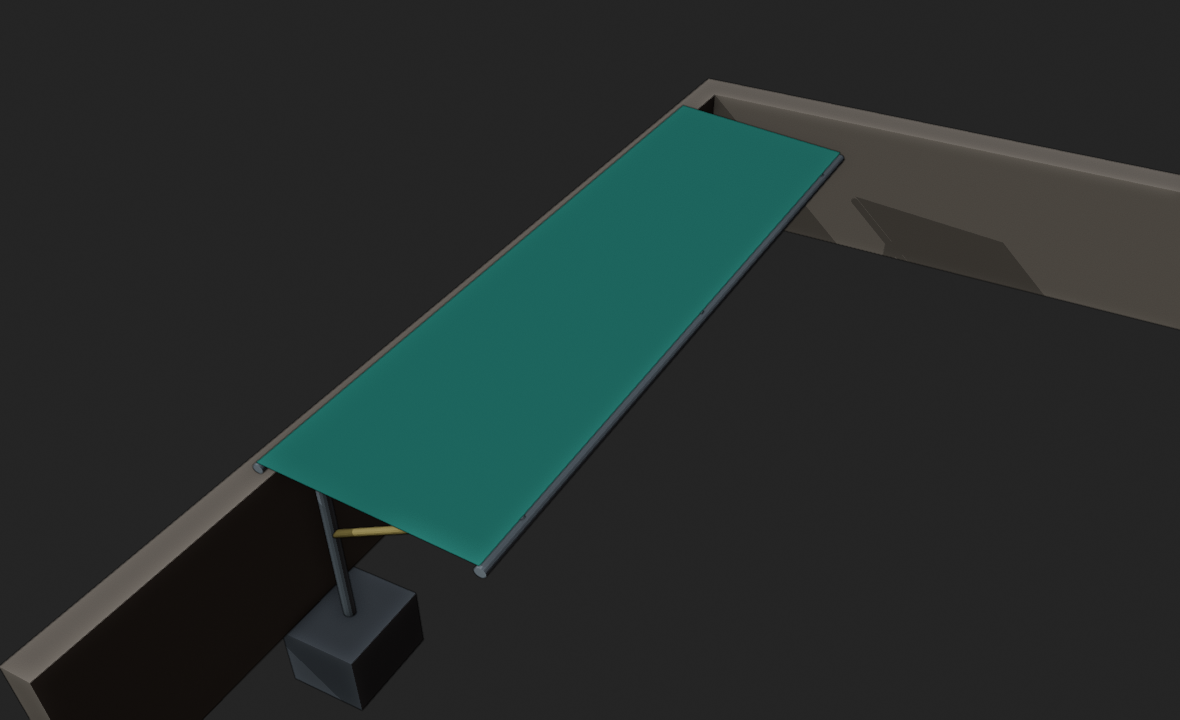
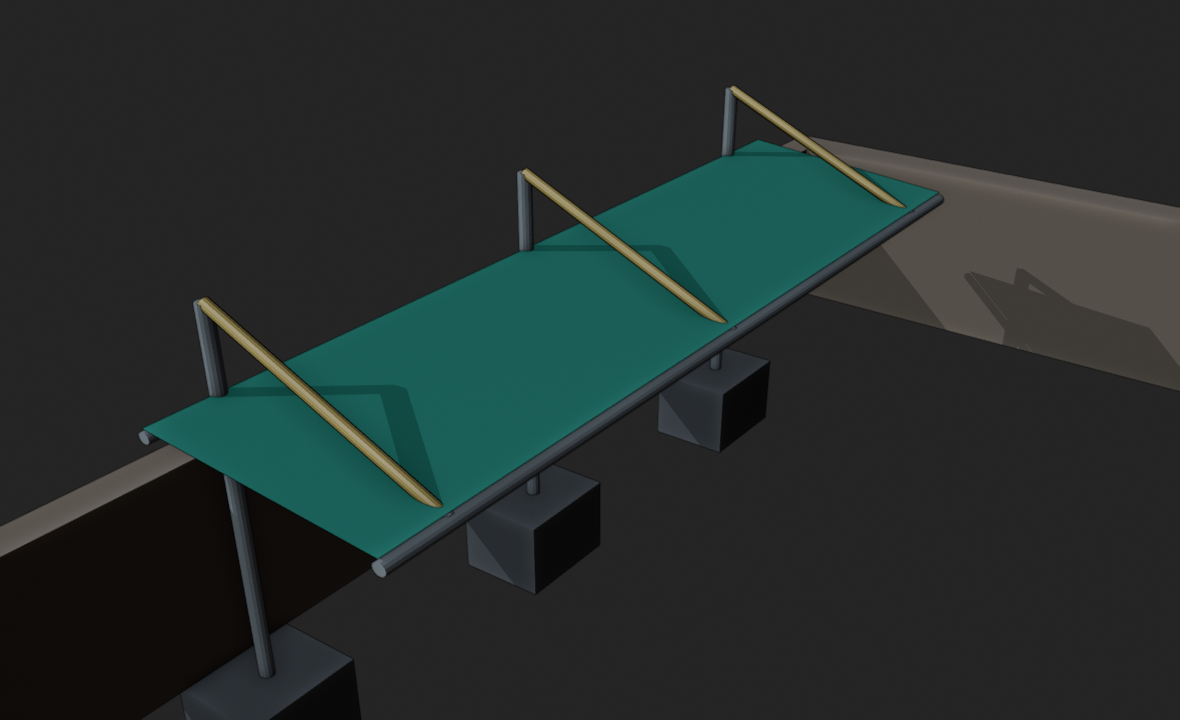
apks: 更新 tools/canopy-struct
Auto-synced by apk-github-sync at 2026-10-19 10:42:09

- apks/README.md
- apks/index.json
- apks/tools/canopy-struct/canopy-struct.apk
- apks/tools/canopy-struct/meta.json
- apks/tools/canopy-struct/src/README.md
- apks/tools/canopy-struct/src/assets/model.js
- apks/tools/canopy-struct/src/assets/view2d.js
- apks/tools/canopy-struct/src/assets/view3d.js
- "apks/tools/canopy-struct/src/\346\210\252\345\233\276/e2e-3d.png"
- "apks/tools/canopy-struct/src/\346\210\252\345\233\276/\345\233\264\345\242\231\344\276\247-W1.png"

Changed region(s): [[0.0, 0.0917, 1.0, 1.0], [0.2136, 0.825, 0.3661, 1.0]]

diff --git a/apks/tools/canopy-struct/src/assets/model.js b/apks/tools/canopy-struct/src/assets/model.js
@@ -110,8 +110,7 @@ const MODEL = (function () {
       cols, netL: P.netL, netW, rise, slope,
       area: P.netL * netW,
       walls: [
-        { x1: 0, y1: 0, x2: P.Wx, y2: 0, len: P.Wx, id: '长边墙' },
-        { x1: 0, y1: 0, x2: 0, y2: P.Wy, len: P.Wy, id: '短边墙' },
+        { x1: 0, y1: 0, x2: P.netL, y2: 0, len: P.netL, id: '围墙' },
       ],
       Hw: P.Hw,
     };
@@ -779,11 +778,17 @@ const MODEL = (function () {
     { id: 'H7', name: '大风前收网', desc: 'H1 不动结构，只加一条：预报大风就把网收起来。',
       over: { layout: 'house', nCol: 3, netW: 4.0, wallZs: 3.05, anchorZ: 4.40,
               secBeam: 'Φ89x3.0', secDiag: 'Φ114x4.0', diagCable: false, diagBoth: false, netDeployed: false } },
-    { id: 'W1', name: '靠围墙挑檐 2m（立柱贴墙）', desc: '2m 砖围墙扛不了上拔，只能做小挑檐：3 根 □120×120×4 立柱贴墙，挑 2m，配 1.0×0.8m 基础。',
-      over: { layout: 'yard', nCol: 3, netL: 8.0, netW: 2.0, h: 2.6, r: 1.2,
-              diagType: 'below', diagCable: false,
+    { id: 'W1', name: '靠围墙挑檐 2.0m（上斜杆）', desc: '3 根 □120×120×4 立柱贴围墙，立柱往上伸 0.8m，上斜杆拉到挑臂端；1.0×0.8m 基础。',
+      over: { layout: 'yard', nCol: 3, netL: 8.0, netW: 2.0, h: 2.60, r: 0.80,
+              diagType: 'above', diagCable: false,
               secCol: '□120x120x4', secBeam: '□120x120x4', secDiag: '□120x120x4',
               footB: 1.0, footH: 0.8, basePlateLever: 0.60, anchorCap: 60,
+              tipX: [1.6, 4.0, 6.4], baseY: [0.45, 0.45, 0.45] } },
+    { id: 'W2', name: '靠围墙挑檐 2.5m（上斜杆·加大）', desc: '换 □150×150×5 + 1.2×0.9m 基础，挑 2.5m。2m 砖墙扛不了上拔，基础必须做大。',
+      over: { layout: 'yard', nCol: 3, netL: 8.0, netW: 2.5, h: 2.60, r: 0.80,
+              diagType: 'above', diagCable: false,
+              secCol: '□150x150x5', secBeam: '□150x150x5', secDiag: '□150x150x5',
+              footB: 1.2, footH: 0.9, basePlateLever: 0.60, anchorCap: 60,
               tipX: [1.6, 4.0, 6.4], baseY: [0.45, 0.45, 0.45] } },
     { id: 'O1', name: '旧：L形围墙三柱（对比）', desc: '院子中间三根 Φ219×6 柱 + 大基础，地面被占。留作对比。',
       over: { layout: 'yard', nCol: 3, netW: 4.0, h: 2.2, r: 1.2, diagType: 'below', diagCable: false,

diff --git a/apks/tools/canopy-struct/src/assets/view3d.js b/apks/tools/canopy-struct/src/assets/view3d.js
@@ -244,22 +244,14 @@ const V3 = (function () {
 
     /* 墙 */
     const bt = brickTexture(); bt.repeat.set(Math.max(1, P.Wx / 1.2), Math.max(1, P.Hw / 0.6));
-    const bw = new THREE.Mesh(new THREE.BoxGeometry(P.Wx, P.Hw, 0.24),
+    const bw = new THREE.Mesh(new THREE.BoxGeometry(geo.netL + 0.6, P.Hw, 0.36),
       new THREE.MeshStandardMaterial({ map: bt, roughness: .95 }));
-    bw.position.set(P.Wx / 2, P.Hw / 2, -0.12);
+    bw.position.set(geo.netL / 2, P.Hw / 2, -0.18);
     G.wall.add(bw);
-    const bt2 = brickTexture(); bt2.repeat.set(Math.max(1, P.Wy / 1.2), Math.max(1, P.Hw / 0.6));
-    const bw2 = new THREE.Mesh(new THREE.BoxGeometry(0.24, P.Hw, P.Wy),
-      new THREE.MeshStandardMaterial({ map: bt2, roughness: .95 }));
-    bw2.position.set(-0.12, P.Hw / 2, P.Wy / 2);
-    G.wall.add(bw2);
     if (o.showNet !== false) {
-      const l1 = labelSprite(`长边墙 ${P.Wx.toFixed(1)}m`, '#a8846c');
+      const l1 = labelSprite(`砖围墙 ${P.Hw.toFixed(1)}m 高（扛不了上拔）`, '#a8846c');
       l1.scale.multiplyScalar(0.8);
-      l1.position.set(P.Wx * 0.88, P.Hw + 0.25, 0.35); G.label.add(l1);
-      const l2 = labelSprite(`短边墙 ${P.Wy.toFixed(1)}m`, '#a8846c');
-      l2.scale.multiplyScalar(0.8);
-      l2.position.set(0.35, P.Hw + 0.25, P.Wy * 0.9); G.label.add(l2);
+      l1.position.set(geo.netL * 0.8, P.Hw + 0.4, 0.3); G.label.add(l1);
     }
 
     /* 网面 */

diff --git a/apks/tools/canopy-struct/src/assets/view2d.js b/apks/tools/canopy-struct/src/assets/view2d.js
@@ -108,16 +108,14 @@ const V2 = (function () {
       txt(g, c.tw.toFixed(2) + 'm', f.X((bd[k] + bd[k + 1]) / 2), f.Y(geo.netW) + 12, COL.warn, 10.5, 'center', true);
     });
 
-    // L 形墙
+    // 围墙（一道）
     g.strokeStyle = COL.wall; g.lineWidth = 8; g.lineCap = 'butt';
-    g.beginPath(); g.moveTo(f.X(0), f.Y(0)); g.lineTo(f.X(P.Wx), f.Y(0)); g.stroke();
-    g.beginPath(); g.moveTo(f.X(0), f.Y(0)); g.lineTo(f.X(0), f.Y(P.Wy)); g.stroke();
+    g.beginPath(); g.moveTo(f.X(-0.2), f.Y(0)); g.lineTo(f.X(geo.netL + 0.2), f.Y(0)); g.stroke();
     g.strokeStyle = '#c39a80'; g.lineWidth = 1.5; g.setLineDash([3, 3]);
-    g.beginPath(); g.moveTo(f.X(0), f.Y(0)); g.lineTo(f.X(P.Wx), f.Y(0)); g.stroke();
-    g.beginPath(); g.moveTo(f.X(0), f.Y(0)); g.lineTo(f.X(0), f.Y(P.Wy)); g.stroke();
+    g.beginPath(); g.moveTo(f.X(-0.2), f.Y(0)); g.lineTo(f.X(geo.netL + 0.2), f.Y(0)); g.stroke();
     g.setLineDash([]);
-    txt(g, `长边墙 ${P.Wx.toFixed(1)} m　墙高 ${P.Hw.toFixed(1)} m`, f.X(P.Wx / 2), f.Y(0) + 15, COL.wall, 10.5, 'center');
-    vtxt(g, `短边墙 ${P.Wy.toFixed(1)} m`, f.X(0) - 15, f.Y(P.Wy / 2), COL.wall, 10.5);
+    txt(g, `砖围墙 ${geo.netL.toFixed(1)} m　高 ${P.Hw.toFixed(1)} m　（扛不了上拔）`,
+        f.X(geo.netL / 2), f.Y(0) + 16, COL.wall, 10.5, 'center');
 
     // 柱与挑梁
     geo.cols.forEach((c, ci) => {

diff --git a/apks/tools/canopy-struct/src/README.md b/apks/tools/canopy-struct/src/README.md
@@ -76,3 +76,49 @@ node tools/dbg.js '{"nCol":5}'            # 命令行改参数跑一遍，打印
 - 土参数（承载力、地下情况）必须现场确认。
 
 **结论照它做之前，请把结果拿给当地的结构工程师或做车棚的厂家核算一遍。**
+
+---
+
+## 真实场地与最终方案（按 Blender 模型量出来的）
+
+场地：主楼 9.6×10 m、13.6 m 高（4 层混凝土框架），门前院子 11.7×9.8 m ≈ 115 m²，围墙 2.0 m 高。
+主楼楼板/圈梁在 **z = 2.75~3.40 / 6.24~6.40 / 9.24~9.40** —— 最好的锚固位置。
+
+**核心结论：主楼是真正的支座（上抬下压都能扛），2 m 砖围墙只能帮下压、帮不了上拔。**
+这一条让两个方向的方案差了 4 倍。
+
+| 档位 | 做法 | 覆盖 | 地面占用 | 能扛 | 钢材 | 混凝土 | 估算 |
+|---|---|---|---|---|---|---|---|
+| **H1 ★** | 靠主楼挑 4.0 m，Φ89×3 + 刚性斜撑 Φ114×4 | 36 m² | **0** | **65.9 m/s（17级+）** | 356 kg | **0** | ¥3,900 |
+| H2 | 挑出 4.5 m，Φ114×4 ×2 | 41 m² | 0 | 59.7（17级） | 478 kg | 0 | ¥5,300 |
+| H3 | 4 根托架 | 36 m² | 0 | 76.1 | 429 kg | 0 | ¥4,700 |
+| H4 | 钢丝绳上下双拉 | 36 m² | 0 | 39.9（13级） | 237 kg | 0 | ¥2,600 |
+| **H4b** | 钢丝绳**只上拉** | — | 0 | **20.7（8级）✗** | 237 kg | 0 | ¥2,600 |
+| H5 | 全 Φ89×3 | 36 m² | 0 | 59.8 | 262 kg | 0 | ¥2,900 |
+| H6 | 标高降到 2.6 m | 36 m² | 0 | 74.8 | 363 kg | 0 | ¥4,000 |
+| H7 | H1 + 大风前收网 | 36 m² | 0 | 87.6 | 356 kg | 0 | ¥3,900 |
+| W1 | 靠围墙挑 2.0 m（立柱贴墙 + 上斜杆） | 16 m² | 贴墙带 | 38.3（13级） | 343 kg | 2.40 m³ | ¥5,450 |
+| W2 | 靠围墙挑 2.5 m（加大） | 20 m² | 贴墙带 | 41.1（13级） | 570 kg | 3.89 m³ | ¥8,990 |
+| O1 | 旧：院子独立三柱 | 29 m² | **3 根柱** | 30.7 | 591 kg | 7.68 m³ | ¥11,900 |
+
+### 钢丝绳能不能用？
+
+**能，但必须上下各一根**。一根绳只能受拉：
+- 下压工况 → 上面的绳受拉，管用；
+- 风吸上抬 → 上面的绳受压失效，必须靠下面的绳把网拽住。
+
+数据：上下双拉 **13 级**，只上拉 **8 级**（H4b 直接不合格）。
+而**一根刚性管上下都管用 → 17 级**，所以推荐刚性斜撑。
+
+### 靠围墙那侧
+
+2 m 砖墙扛不了上拔 → 柱脚要吃 `M = P·L` 的倾覆，基础必须做大。
+扫了 1080 组（挑出 2~4 m × 3~4 柱 × 6 种管 × 6 种基础 × 上斜杆 3 种高度）：
+
+- **最多挑 2~2.5 m**（W1 / W2）
+- 挑 3 m 要 □150×150×5 + 1.5×1.0 m 基础（约 ¥11,500），挑 3.5 m 要 4 根柱（约 ¥16,400）
+
+### 最终建议
+
+**主棚靠主楼挑 4.0 m（H1）** + **围墙侧补一条 2.0~2.5 m 挑檐（W1/W2）**，中间留 3~4 m 过道。
+主棚地面一根柱子都没有，车直接开进去。

diff --git a/apks/README.md b/apks/README.md
@@ -1,7 +1,7 @@
 # Pi 开发的 APK 软件包
 
 本目录由 [`apk-github-sync`](../skills/apk-github-sync/) 自动从本机镜像同步。
-最后同步：**2026-10-19 10:31:44**　|　共 **15** 个应用　|　APK 合计 **48.0 MB**
+最后同步：**2026-10-19 10:42:06**　|　共 **15** 个应用　|　APK 合计 **48.0 MB**
 
 每个应用一个子目录，里面有编译好的 APK 和对应的源代码：
 
